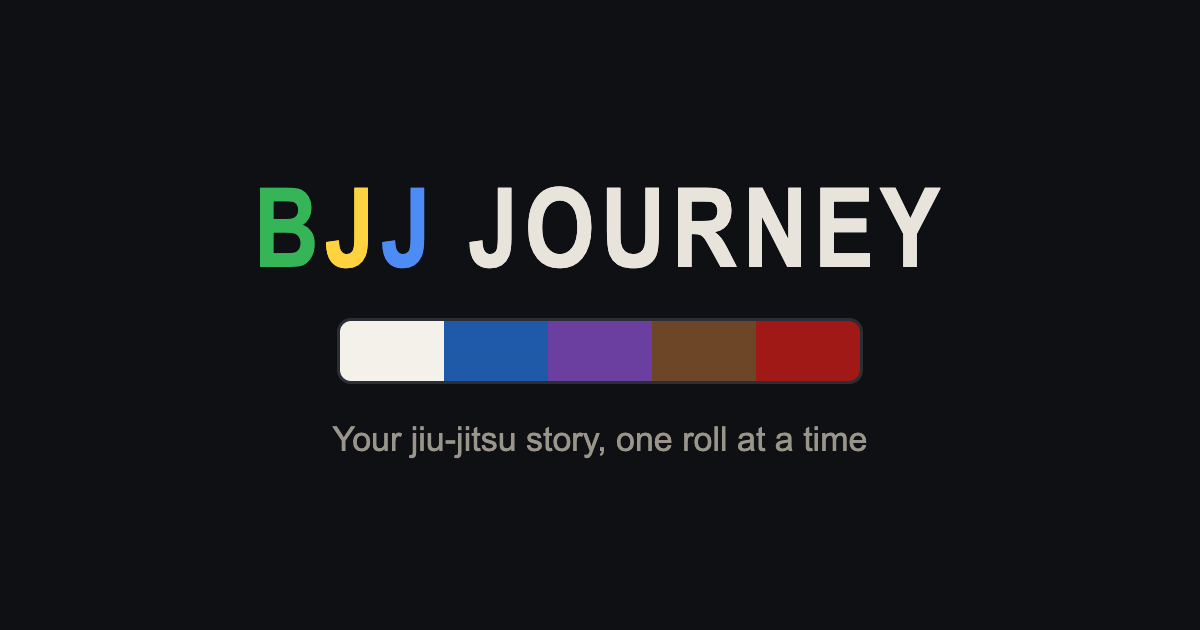
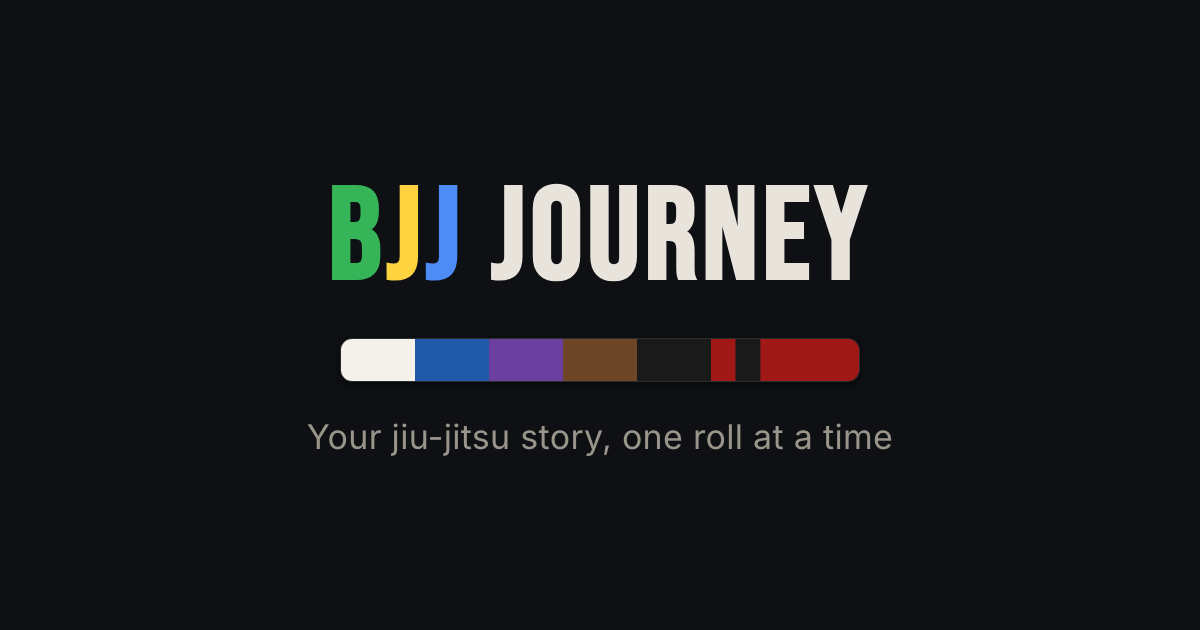
coral fix

Changed region(s): [[0.2158, 0.2714, 0.8017, 0.4524], [0.2775, 0.4825, 0.74, 0.6333], [0.2467, 0.6635, 0.74, 0.7238]]

diff --git a/src/components/BeltStrip.tsx b/src/components/BeltStrip.tsx
@@ -1,15 +1,33 @@
 import { BELT_STYLES } from '../types'
 
-const STRIP_BELTS = ['white', 'blue', 'purple', 'brown', 'black'] as const
+// The adult belt journey, white through red. `coral` and `red` share a
+// base color, so the center band rendered below is what sets them apart.
+const STRIP_BELTS = [
+  'white',
+  'blue',
+  'purple',
+  'brown',
+  'black',
+  'coral',
+  'red',
+] as const
 
-// Decorative white-to-black belt gradient strip used as a header
-// accent. The caller's className controls the size.
+// Decorative belt-progression strip used as a header accent. The
+// caller's className controls the size.
 export function BeltStrip({ className }: { className: string }) {
+  const width = `${100 / STRIP_BELTS.length}%`
   return (
     <div className={className} aria-hidden>
-      {STRIP_BELTS.map((b) => (
-        <span key={b} style={{ backgroundColor: BELT_STYLES[b].base }} />
-      ))}
+      {STRIP_BELTS.map((b) => {
+        const style = BELT_STYLES[b]
+        return (
+          <span key={b} style={{ width, backgroundColor: style.base }}>
+            {style.band && (
+              <i className="belt-strip-band" style={{ backgroundColor: style.band }} />
+            )}
+          </span>
+        )
+      })}
     </div>
   )
 }

diff --git a/src/index.css b/src/index.css
@@ -339,13 +339,23 @@ input[type='date'] {
   height: 22px;
   margin: 0 auto 56px;
   overflow: hidden;
+  white-space: nowrap;
   width: 480px;
 }
 
 .summary-belt-strip span {
   display: inline-block;
   height: 100%;
-  width: 20%;
+  position: relative;
+}
+
+.belt-strip-band {
+  position: absolute;
+  top: 0;
+  bottom: 0;
+  left: 50%;
+  width: 34%;
+  transform: translateX(-50%);
 }
 
 .summary-title {
@@ -611,6 +621,7 @@ input[type='date'] {
 
 .timeline-header-belt span {
   flex: 1;
+  position: relative;
 }
 
 .timeline-header h2 {

diff --git a/src/components/EventForm.tsx b/src/components/EventForm.tsx
@@ -154,7 +154,7 @@ export function EventForm({
           <span>{t('form.belt')}</span>
           <select value={belt} onChange={(e) => setBelt(e.target.value as BeltColor)}>
             <optgroup label={t('belt.groupAdult')}>
-              {ADULT_BELTS.map((b) => (
+              {ADULT_BELTS.filter((b) => b !== 'white').map((b) => (
                 <option key={b} value={b}>
                   {t(`belt.${b}`)}
                 </option>